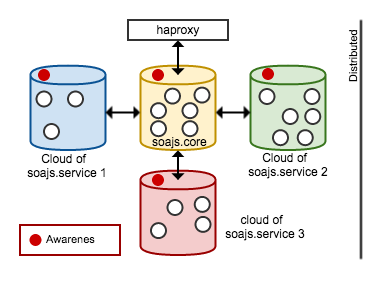
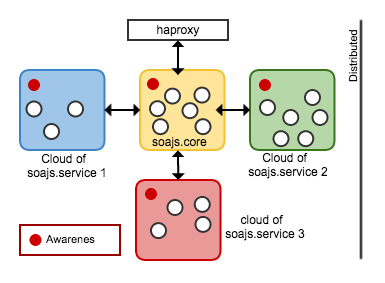
updated features page images for security and awareness and css updates on look and feel

Changed region(s): [[0.0312, 0.2261, 0.8727, 0.5371], [0.3429, 0.5936, 0.5922, 0.9329]]

diff --git a/sections/features/page.html b/sections/features/page.html
@@ -14,11 +14,11 @@
 
 						<h3> {{feature.title}} </h3>
 						<table cellspacing="5">
-							<tr>
+							<tr ng-class-even="'even'" ng-class-odd="'odd'">
 								<td class="left" valign="top" ng-show="feature.leftImage">
 									<img ng-src="{{feature.imageLocation}}"/>
 								</td>
-								<td valign="top" ng-bind-html="feature.fullDescription|toTrustedHtml"></td>
+								<td valign="top" class="middle" ng-bind-html="feature.fullDescription|toTrustedHtml"></td>
 								<td class="right" valign="top" ng-show="feature.rightImage">
 									<img ng-src="{{feature.imageLocation}}"/>
 								</td>

diff --git a/css/page.css b/css/page.css
@@ -593,7 +593,7 @@ a:hover{
 .features-page .main-section-container .feature-list ul li {
     box-sizing: border-box;
     clear: both;
-    padding: 45px 0;
+    padding-bottom: 40px;
     position: relative;
     width: 100%;
 }
@@ -620,6 +620,14 @@ a:hover{
     font-weight: 400;
     line-height: 1.9em;
     padding-top:5px;
+}
+
+.features-page table tr.odd .middle{
+    padding:0 40px 0 20px;
+}
+
+.features-page table tr.even .middle{
+    padding:0 20px 0 40px;
 }
 
 /* OTHER CSS CLASSES */
